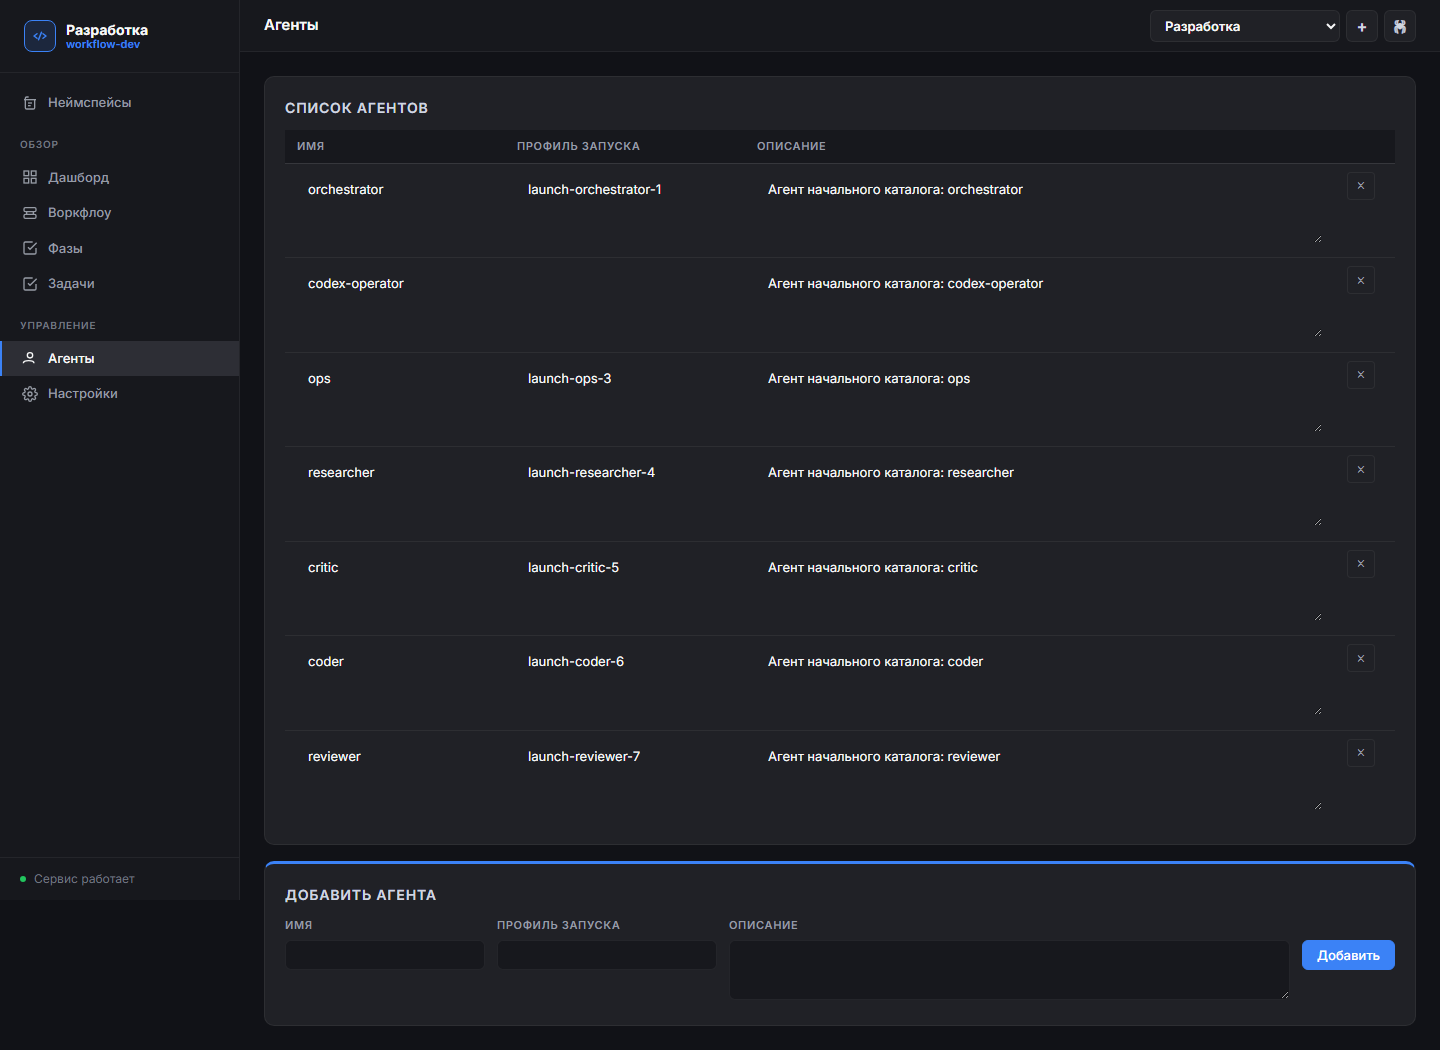
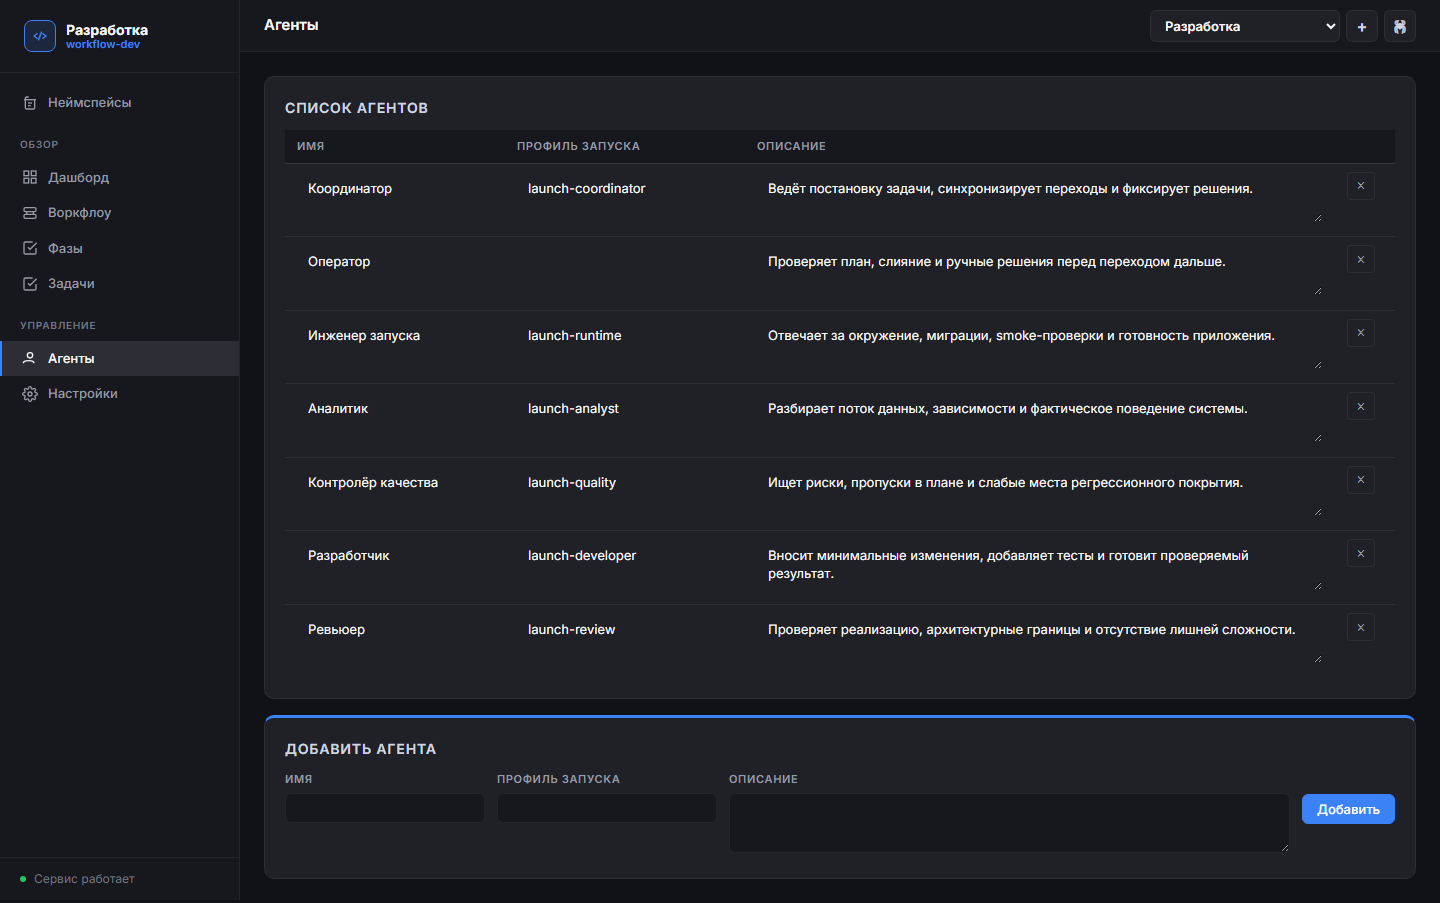
Harden neutral UI screenshot evidence

diff --git a/project_workflow/interfaces/ui/templates/agents.html b/project_workflow/interfaces/ui/templates/agents.html
@@ -7,10 +7,10 @@
 .agent-layout{display:grid;grid-template-columns:minmax(0,1fr);gap:16px}
 .agent-table{width:100%}
 .agent-table th{white-space:nowrap}
-.inline-edit,.inline-textarea{background:transparent;border:1px solid transparent;padding:8px 10px;border-radius:6px;color:var(--text);font-size:13px;width:100%;font-family:inherit}
+.inline-edit,.inline-textarea{background:transparent;border:1px solid transparent;padding:7px 10px;border-radius:6px;color:var(--text);font-size:13px;width:100%;font-family:inherit}
 .inline-edit:hover,.inline-textarea:hover{background:var(--panel)}
 .inline-edit:focus,.inline-textarea:focus{background:var(--panel);border-color:var(--accent);outline:none}
-.inline-textarea{min-height:72px;resize:vertical}
+.inline-textarea{min-height:44px;resize:vertical;line-height:1.35}
 .form-grid{display:grid;grid-template-columns:200px 220px minmax(260px,1fr) auto;gap:12px;align-items:start}
 .field-label{display:block;font-size:11px;font-weight:600;color:var(--text-muted);text-transform:uppercase;letter-spacing:.06em;margin-bottom:6px}
 .agent-create{border-top:3px solid var(--accent)}
@@ -39,7 +39,7 @@
           <td style="width:240px">
             <input type="text" class="inline-edit" value="{{ a.launch_profile or '' }}" data-field="launch_profile" onblur="saveRow(this)">
           </td>
-          <td>
+          <td style="min-width:360px">
             <textarea class="inline-textarea" data-field="description" onblur="saveRow(this)">{{ a.description or '' }}</textarea>
           </td>
           <td style="width:60px;text-align:right">

diff --git a/scripts/prepare_ui_smoke_data.py b/scripts/prepare_ui_smoke_data.py
@@ -215,6 +215,43 @@ QA_PHASES = [
     ("Отчёт о рисках", "Собрать замечания, риски и подтверждения."),
     ("Финальный отчёт", "Зафиксировать итог проверки."),
 ]
+DEMO_AGENT_PROFILES: dict[str, dict[str, Any]] = {
+    "orchestrator": {
+        "name": "Координатор",
+        "description": "Ведёт постановку задачи, синхронизирует переходы и фиксирует решения.",
+        "hermes_profile": "launch-coordinator",
+    },
+    "codex-operator": {
+        "name": "Оператор",
+        "description": "Проверяет план, слияние и ручные решения перед переходом дальше.",
+        "hermes_profile": None,
+    },
+    "ops": {
+        "name": "Инженер запуска",
+        "description": "Отвечает за окружение, миграции, smoke-проверки и готовность приложения.",
+        "hermes_profile": "launch-runtime",
+    },
+    "researcher": {
+        "name": "Аналитик",
+        "description": "Разбирает поток данных, зависимости и фактическое поведение системы.",
+        "hermes_profile": "launch-analyst",
+    },
+    "critic": {
+        "name": "Контролёр качества",
+        "description": "Ищет риски, пропуски в плане и слабые места регрессионного покрытия.",
+        "hermes_profile": "launch-quality",
+    },
+    "coder": {
+        "name": "Разработчик",
+        "description": "Вносит минимальные изменения, добавляет тесты и готовит проверяемый результат.",
+        "hermes_profile": "launch-developer",
+    },
+    "reviewer": {
+        "name": "Ревьюер",
+        "description": "Проверяет реализацию, архитектурные границы и отсутствие лишней сложности.",
+        "hermes_profile": "launch-review",
+    },
+}
 
 
 def _assert_smoke_database_url(database_url: str) -> None:
@@ -341,14 +378,20 @@ def _ensure_default_demo_workflow(uow: SAUnitOfWork) -> dict[str, Any]:
     return workflow
 
 
-def _neutralize_agent_profiles(uow: SAUnitOfWork) -> None:
+def _neutralize_agents(uow: SAUnitOfWork) -> None:
     for agent in uow.agents.list():
-        if agent.id is None or agent.hermes_profile is None:
+        if agent.id is None:
             continue
-        neutral_profile = _neutral_profile_name(agent.name, int(agent.id))
-        if agent.hermes_profile == neutral_profile:
+        demo_agent = DEMO_AGENT_PROFILES.get(agent.name)
+        if demo_agent is None:
+            if agent.hermes_profile is None:
+                continue
+            neutral_profile = _neutral_profile_name(agent.name, int(agent.id))
+            if agent.hermes_profile == neutral_profile:
+                continue
+            uow.agents.update(int(agent.id), {"hermes_profile": neutral_profile})
             continue
-        uow.agents.update(int(agent.id), {"hermes_profile": neutral_profile})
+        uow.agents.update(int(agent.id), demo_agent)
     uow.commit()
 
 
@@ -555,7 +598,7 @@ def prepare_smoke_data() -> None:
     _ensure_bootstrap()
     with SAUnitOfWork() as uow:
         _reset_smoke_rows(uow)
-        _neutralize_agent_profiles(uow)
+        _neutralize_agents(uow)
         default_workflow = _ensure_default_demo_workflow(uow)
         qa_workflow_id = _ensure_qa_workflow(uow)
         dev_namespace = _ensure_namespace(

diff --git a/tests/test_ui_smoke_data.py b/tests/test_ui_smoke_data.py
@@ -16,6 +16,7 @@ from project_workflow.infrastructure.db.uow import SAUnitOfWork
 from project_workflow.interfaces.ui.app import create_app
 from scripts.prepare_ui_smoke_data import (
     DEFAULT_DEMO_WORKFLOW_NAME,
+    DEMO_AGENT_PROFILES,
     QA_WORKFLOW_NAME,
     TASK_KEY,
     TASK_SCENARIOS,
@@ -88,6 +89,11 @@ def test_prepare_ui_smoke_data_creates_neutral_parallel_namespace_fixture(tmp_pa
     assert dev_task is not None
     assert qa_task is not None
     assert dev_task.task_key == qa_task.task_key == TASK_KEY
+    assert {agent["name"] for agent in agents} >= {
+        str(agent["name"]) for agent in DEMO_AGENT_PROFILES.values()
+    }
+    assert "orchestrator" not in visible_text
+    assert "codex-operator" not in visible_text
 
 
 def test_prepare_ui_smoke_data_resets_stale_visible_runtime_rows(tmp_path, monkeypatch) -> None:
@@ -145,6 +151,8 @@ def test_prepare_ui_smoke_data_resets_stale_visible_runtime_rows(tmp_path, monke
     assert task_counts == {command: len(scenarios) for command, scenarios in TASK_SCENARIOS.items()}
     assert {workflow["name"] for workflow in workflows} == {DEFAULT_DEMO_WORKFLOW_NAME, QA_WORKFLOW_NAME}
     assert "hermes" not in rendered_text.casefold()
+    assert "orchestrator" not in rendered_text
+    assert "codex-operator" not in rendered_text
 
 
 def test_prepare_ui_smoke_data_rejects_non_smoke_database_url(tmp_path, monkeypatch) -> None:
@@ -218,6 +226,10 @@ def test_ui_smoke_pages_render_neutral_screenshot_fixture(tmp_path, monkeypatch)
     assert "sdlc-business-tech-v1" not in rendered
     assert "sdlc-orchestrator" not in rendered
     assert "Default Namespace" not in rendered
+    assert "orchestrator" not in rendered
+    assert "codex-operator" not in rendered
+    assert "Координатор" in rendered
+    assert "Ревьюер" in rendered
     assert DEFAULT_DEMO_WORKFLOW_NAME in rendered
     assert QA_WORKFLOW_NAME in rendered
     assert "workflow-dev" in rendered

diff --git a/tests/test_docs_quality.py b/tests/test_docs_quality.py
@@ -95,6 +95,8 @@ def test_screenshot_capture_script_checks_full_smoke_data() -> None:
     assert "/project-workflow/i" in source
     assert "sdlc-" in source
     assert "Default Namespace" in source
+    assert "orchestrator" in source
+    assert "codex-operator" in source
     assert 'name: "settings.png"' in source
     assert "workflow-dev step" in source
 
